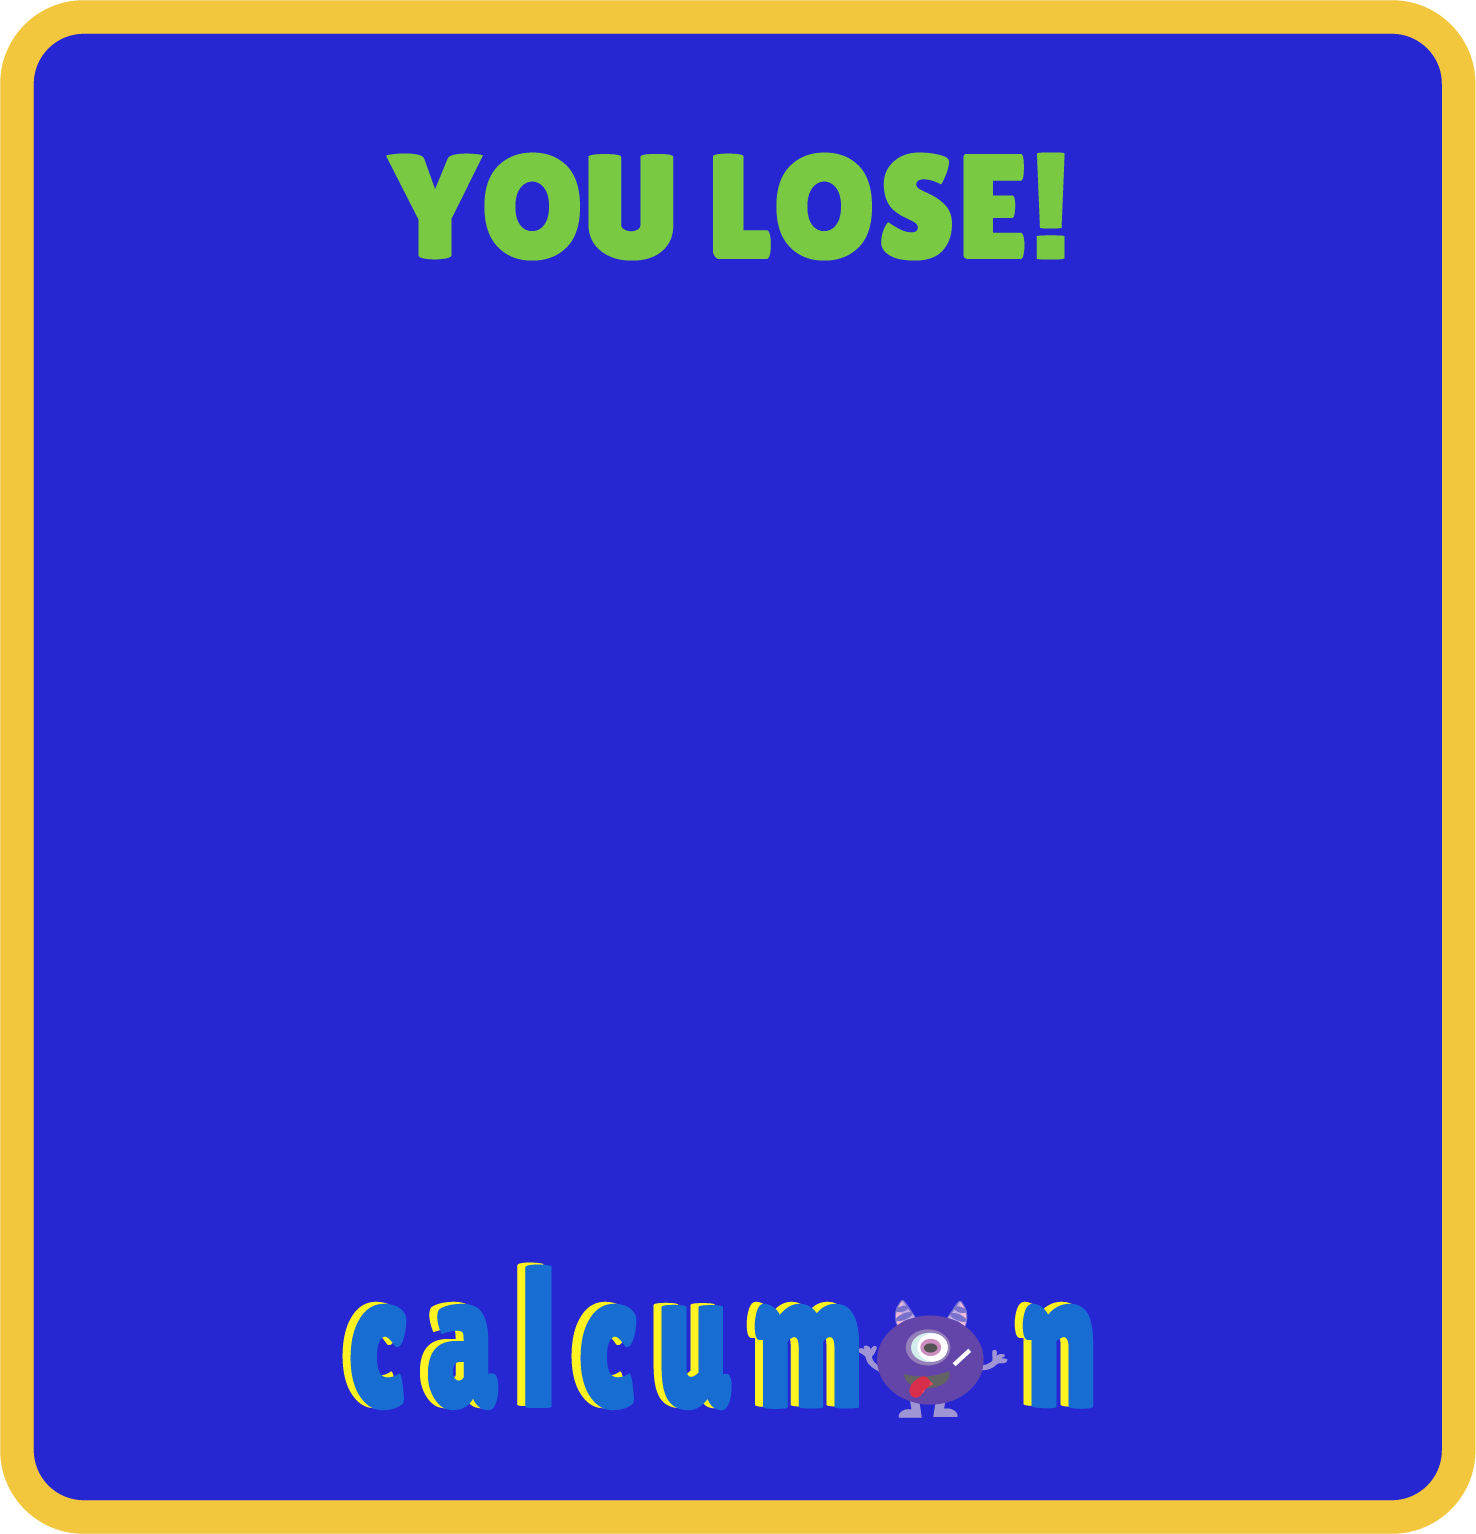
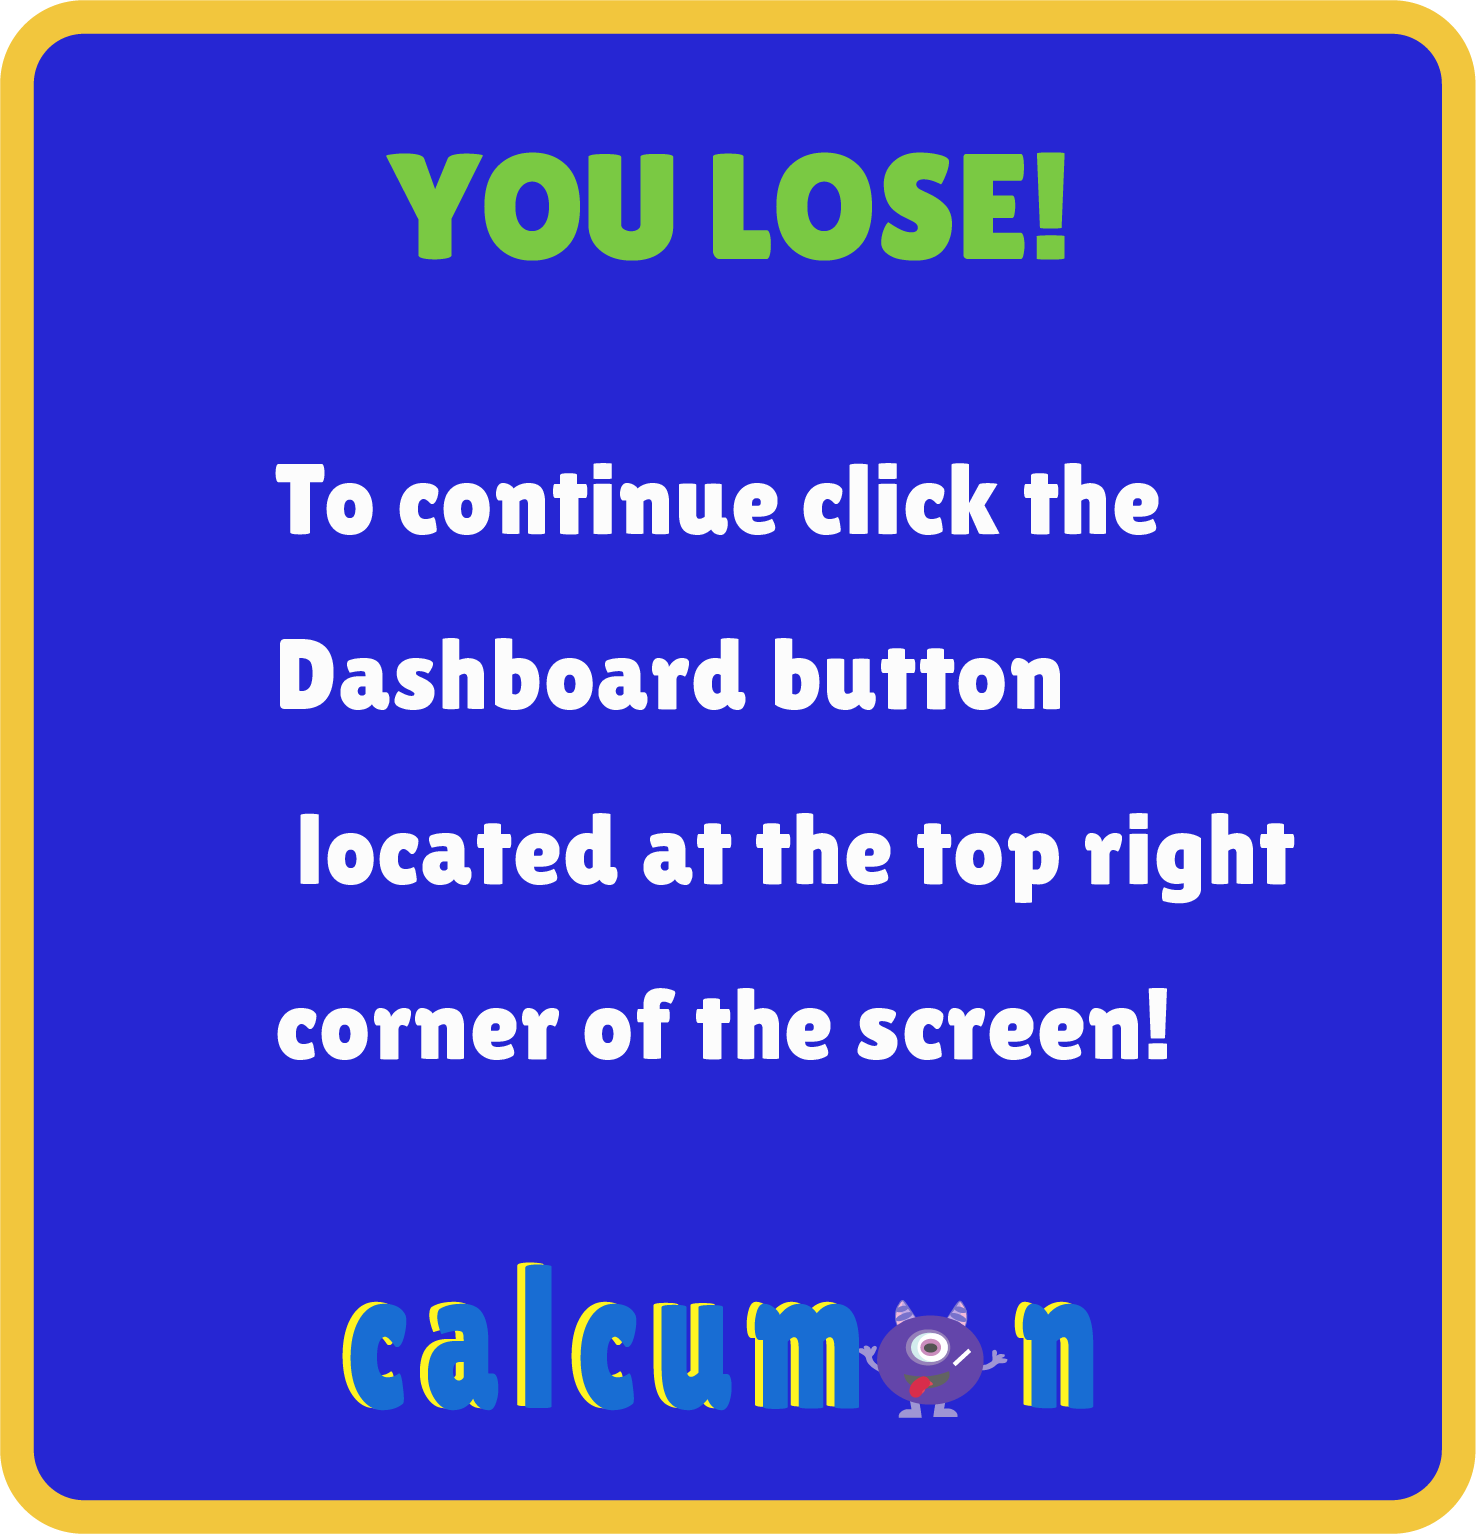
finished mvp for game over screen

diff --git a/public/js/Game.js b/public/js/Game.js
@@ -155,27 +155,14 @@ class Game {
     winPopup() {
         this.player.level += 1
 
-        // // bounding box
-        // ctx.fillStyle = "rgba(200, 205, 255, 0.6)";
-        // ctx.fillRect(100, 0, 1500, 1000)
-
         var img = document.getElementById("win");
         this.ctx.drawImage(img, 500, 200, 620, 500);
-        var img2 = document.getElementById("next");
-        this.ctx.drawImage(img2, 620, 350, 400, 80);
-        var img3 = document.getElementById("dash");
-        this.ctx.drawImage(img3, 620, 500, 400, 80);
     }
 
     losePopup() {
 
         var img = document.getElementById("lose");
         this.ctx.drawImage(img, 500, 200, 620, 500);
-        var img2 = document.getElementById("try");
-        this.ctx.drawImage(img2, 620, 350, 400, 80);
-        var img3 = document.getElementById("dash");
-        this.ctx.drawImage(img3, 620, 500, 400, 80);
-
     }
 
     gameOver(winner) {
@@ -267,8 +254,12 @@ class Game {
         this.attacks.currIndex = 0
 
         // new problem after attack
-        this.player.newProblem()
-        this.draw()
+        if (this.player.health > 0 & this.computer.health > 0) {
+            this.player.newProblem()
+            this.draw()
+        }
+
+        
         return
     }
 
